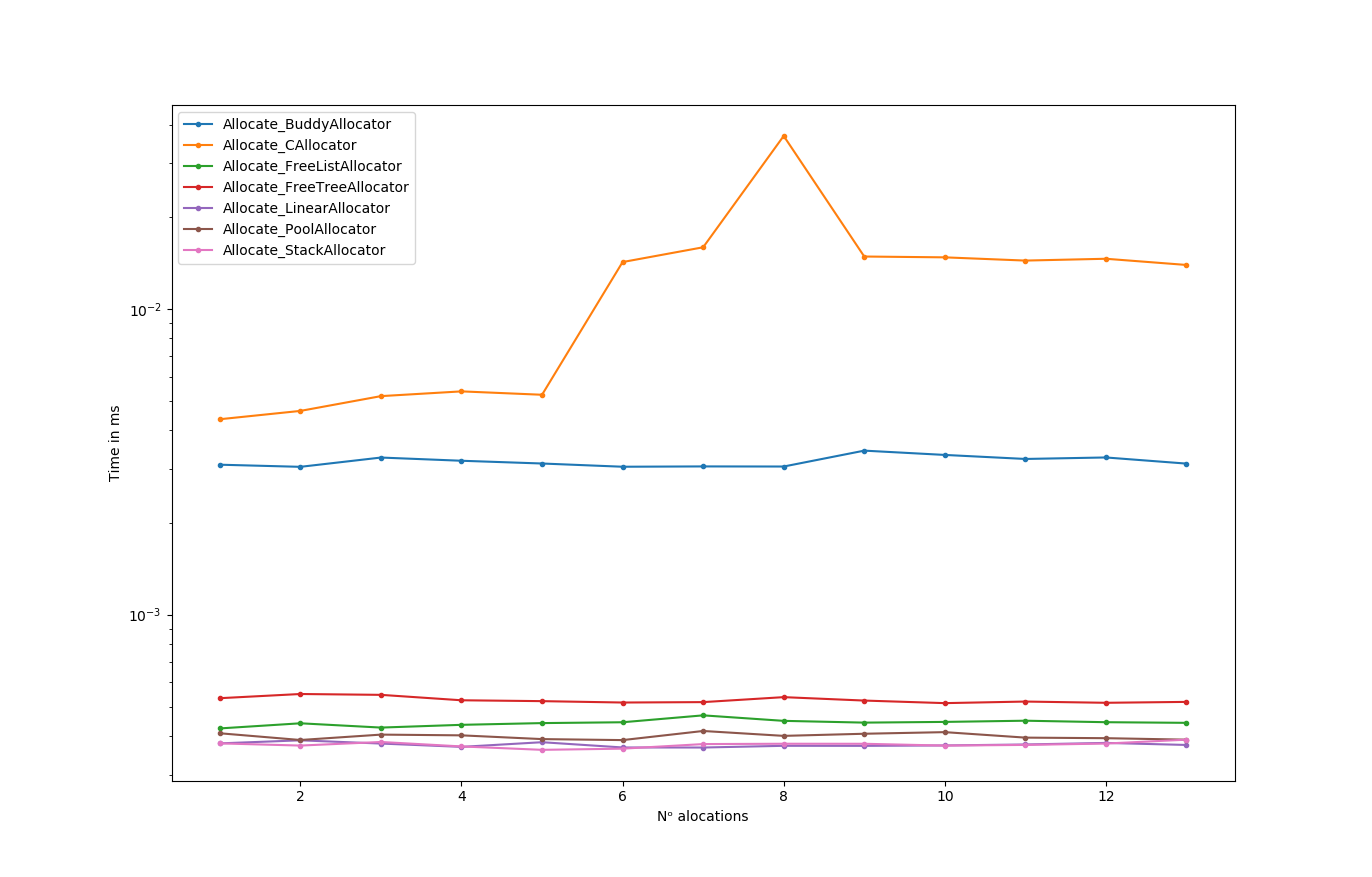
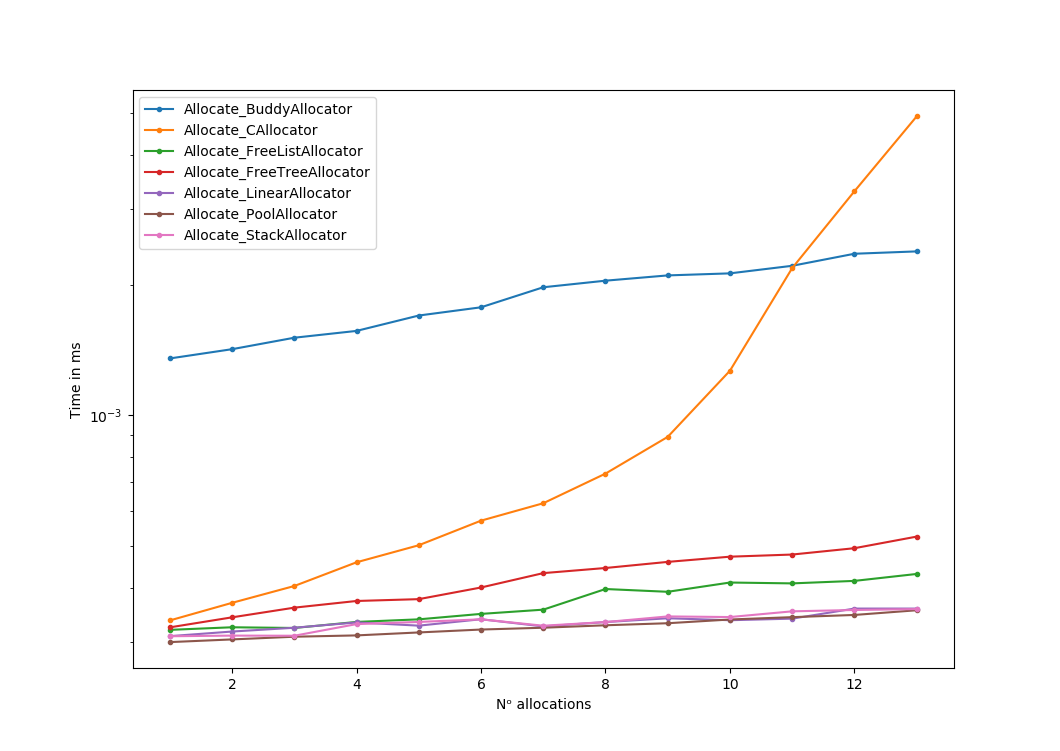
update benchmarks

diff --git a/benchmark/main.cpp b/benchmark/main.cpp
@@ -15,21 +15,21 @@ static void SetUp()
 	}
 }
 
-BENCHMARK(Allocate_CAllocator)->DenseRange(1, 13, 1)->Unit(benchmark::kMillisecond);
-BENCHMARK(Allocate_LinearAllocator)->DenseRange(1, 13, 1)->Unit(benchmark::kMillisecond);
-BENCHMARK(Allocate_StackAllocator)->DenseRange(1, 13, 1)->Unit(benchmark::kMillisecond);
-BENCHMARK(Allocate_PoolAllocator)->DenseRange(1, 13, 1)->Unit(benchmark::kMillisecond);
-BENCHMARK(Allocate_FreeListAllocator)->DenseRange(1, 13, 1)->Unit(benchmark::kMillisecond);
-BENCHMARK(Allocate_FreeTreeAllocator)->DenseRange(1, 13, 1)->Unit(benchmark::kMillisecond);
-BENCHMARK(Allocate_BuddyAllocator)->DenseRange(1, 13, 1)->Unit(benchmark::kMillisecond);
+//BENCHMARK(Allocate_CAllocator)->DenseRange(1, 13, 1)->Unit(benchmark::kMillisecond);
+//BENCHMARK(Allocate_LinearAllocator)->DenseRange(1, 13, 1)->Unit(benchmark::kMillisecond);
+//BENCHMARK(Allocate_StackAllocator)->DenseRange(1, 13, 1)->Unit(benchmark::kMillisecond);
+//BENCHMARK(Allocate_PoolAllocator)->DenseRange(1, 13, 1)->Unit(benchmark::kMillisecond);
+//BENCHMARK(Allocate_FreeListAllocator)->DenseRange(1, 13, 1)->Unit(benchmark::kMillisecond);
+//BENCHMARK(Allocate_FreeTreeAllocator)->DenseRange(1, 13, 1)->Unit(benchmark::kMillisecond);
+//BENCHMARK(Allocate_BuddyAllocator)->DenseRange(1, 13, 1)->Unit(benchmark::kMillisecond);
 
-BENCHMARK(RandomAllocate_CAllocator)->DenseRange(0, s_NumOfRandAllocations, 10000)->Unit(benchmark::kMillisecond);
-BENCHMARK(RandomAllocate_LinearAllocator)->DenseRange(0, s_NumOfRandAllocations, 10000)->Unit(benchmark::kMillisecond);
-BENCHMARK(RandomAllocate_StackAllocator)->DenseRange(0, s_NumOfRandAllocations, 10000)->Unit(benchmark::kMillisecond);
-BENCHMARK(RandomAllocate_PoolAllocator)->DenseRange(0, s_NumOfRandAllocations, 10000)->Unit(benchmark::kMillisecond);
-BENCHMARK(RandomAllocate_FreeListAllocator)->DenseRange(0, s_NumOfRandAllocations, 10000)->Unit(benchmark::kMillisecond);
-BENCHMARK(RandomAllocate_FreeTreeAllocator)->DenseRange(0, s_NumOfRandAllocations, 10000)->Unit(benchmark::kMillisecond);
-BENCHMARK(RandomAllocate_BuddyAllocator)->DenseRange(0, s_NumOfRandAllocations, 10000)->Unit(benchmark::kMillisecond);
+//BENCHMARK(RandomAllocate_CAllocator)->DenseRange(0, s_NumOfRandAllocations, 10000)->Unit(benchmark::kMillisecond);
+//BENCHMARK(RandomAllocate_LinearAllocator)->DenseRange(0, s_NumOfRandAllocations, 10000)->Unit(benchmark::kMillisecond);
+//BENCHMARK(RandomAllocate_StackAllocator)->DenseRange(0, s_NumOfRandAllocations, 10000)->Unit(benchmark::kMillisecond);
+//BENCHMARK(RandomAllocate_PoolAllocator)->DenseRange(0, s_NumOfRandAllocations, 10000)->Unit(benchmark::kMillisecond);
+//BENCHMARK(RandomAllocate_FreeListAllocator)->DenseRange(0, s_NumOfRandAllocations, 10000)->Unit(benchmark::kMillisecond);
+//BENCHMARK(RandomAllocate_FreeTreeAllocator)->DenseRange(0, s_NumOfRandAllocations, 10000)->Unit(benchmark::kMillisecond);
+//BENCHMARK(RandomAllocate_BuddyAllocator)->DenseRange(0, s_NumOfRandAllocations, 10000)->Unit(benchmark::kMillisecond);
 
 BENCHMARK(RandomAllocateAndFree_CAllocator)->DenseRange(0, s_NumOfRandAllocations, 10000)->Unit(benchmark::kMillisecond);
 BENCHMARK(RandomAllocateAndFree_LinearAllocator)->DenseRange(0, s_NumOfRandAllocations, 10000)->Unit(benchmark::kMillisecond);

diff --git a/benchmark/Allocations.cpp b/benchmark/Allocations.cpp
@@ -13,9 +13,9 @@ static void BenchmarkMultipleAllocations(A5::Allocator* alloc, benchmark::State&
 {
 	for (auto _ : state)
 	{
-		for (auto s : s_Sizes)
+		for (std::size_t i = 0; i < state.range(0); ++i)
 		{
-			benchmark::DoNotOptimize(alloc->Allocate(s, s_MaxAlignment));
+			benchmark::DoNotOptimize(alloc->Allocate(s_Sizes[i], s_MaxAlignment));
 		}
 		state.PauseTiming();
 		alloc->Reset();
@@ -27,7 +27,7 @@ static void BenchmarkMultipleFixedAllocations(A5::Allocator* alloc, benchmark::S
 {
 	for (auto _ : state)
 	{
-		for (auto s : s_Sizes)
+		for (std::size_t i = 0; i < state.range(0); ++i)
 		{
 			benchmark::DoNotOptimize(alloc->Allocate(size, s_MaxAlignment));
 		}
@@ -41,9 +41,9 @@ static void BenchmarkMultieRandomAllocations(A5::Allocator* alloc, benchmark::St
 {
 	for (auto _ : state)
 	{
-		for (auto s : s_RandomSizes)
+		for (std::size_t i = 0; i < state.range(0); ++i)
 		{
-			benchmark::DoNotOptimize(alloc->Allocate(s, s_MaxAlignment));
+			benchmark::DoNotOptimize(alloc->Allocate(s_RandomSizes[i], s_MaxAlignment));
 		}
 		state.PauseTiming();
 		alloc->Reset();

diff --git a/src/FreeListAllocator.cpp b/src/FreeListAllocator.cpp
@@ -29,7 +29,6 @@ void* A5::FreeListAllocator::Allocate(const std::size_t size, const std::size_t 
 	std::align(alignof(std::max_align_t), sizeof(std::max_align_t), nextAddress, space);
 	padding = (std::size_t)nextAddress - (std::size_t)currentAddress;
 
-
 	LinkedList::Node* prev;
 	LinkedList::Node* best;
 
